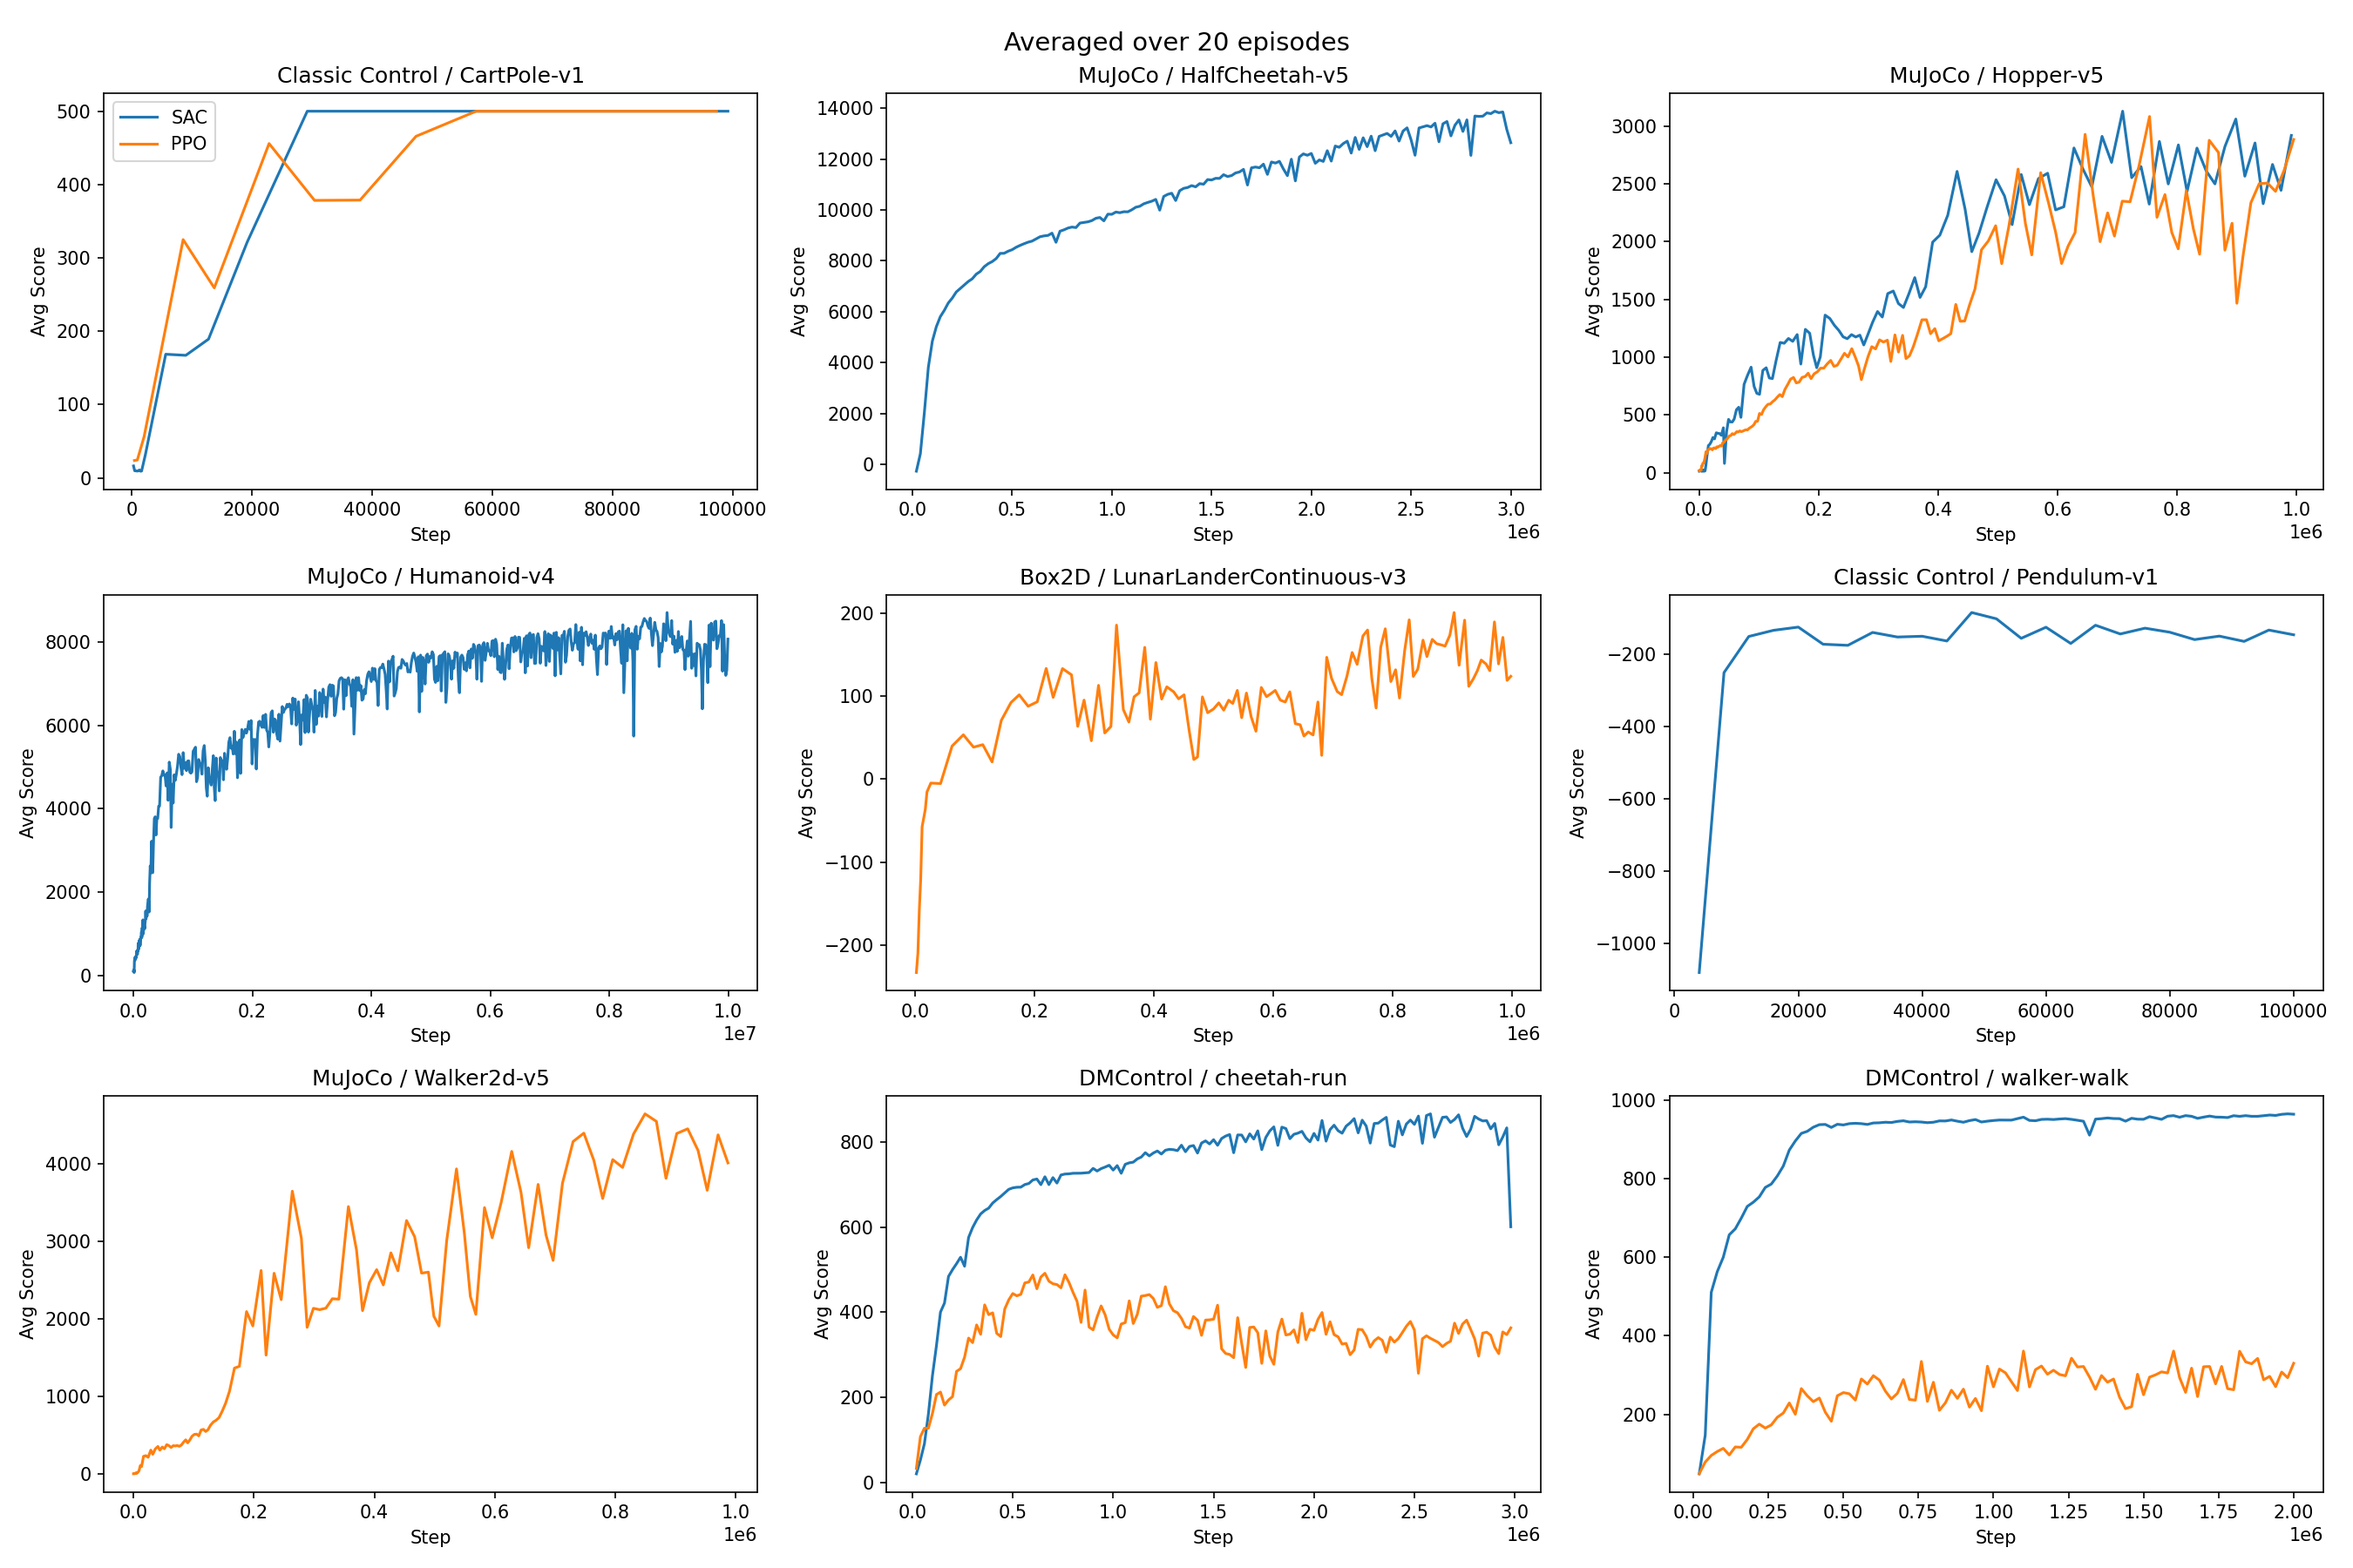
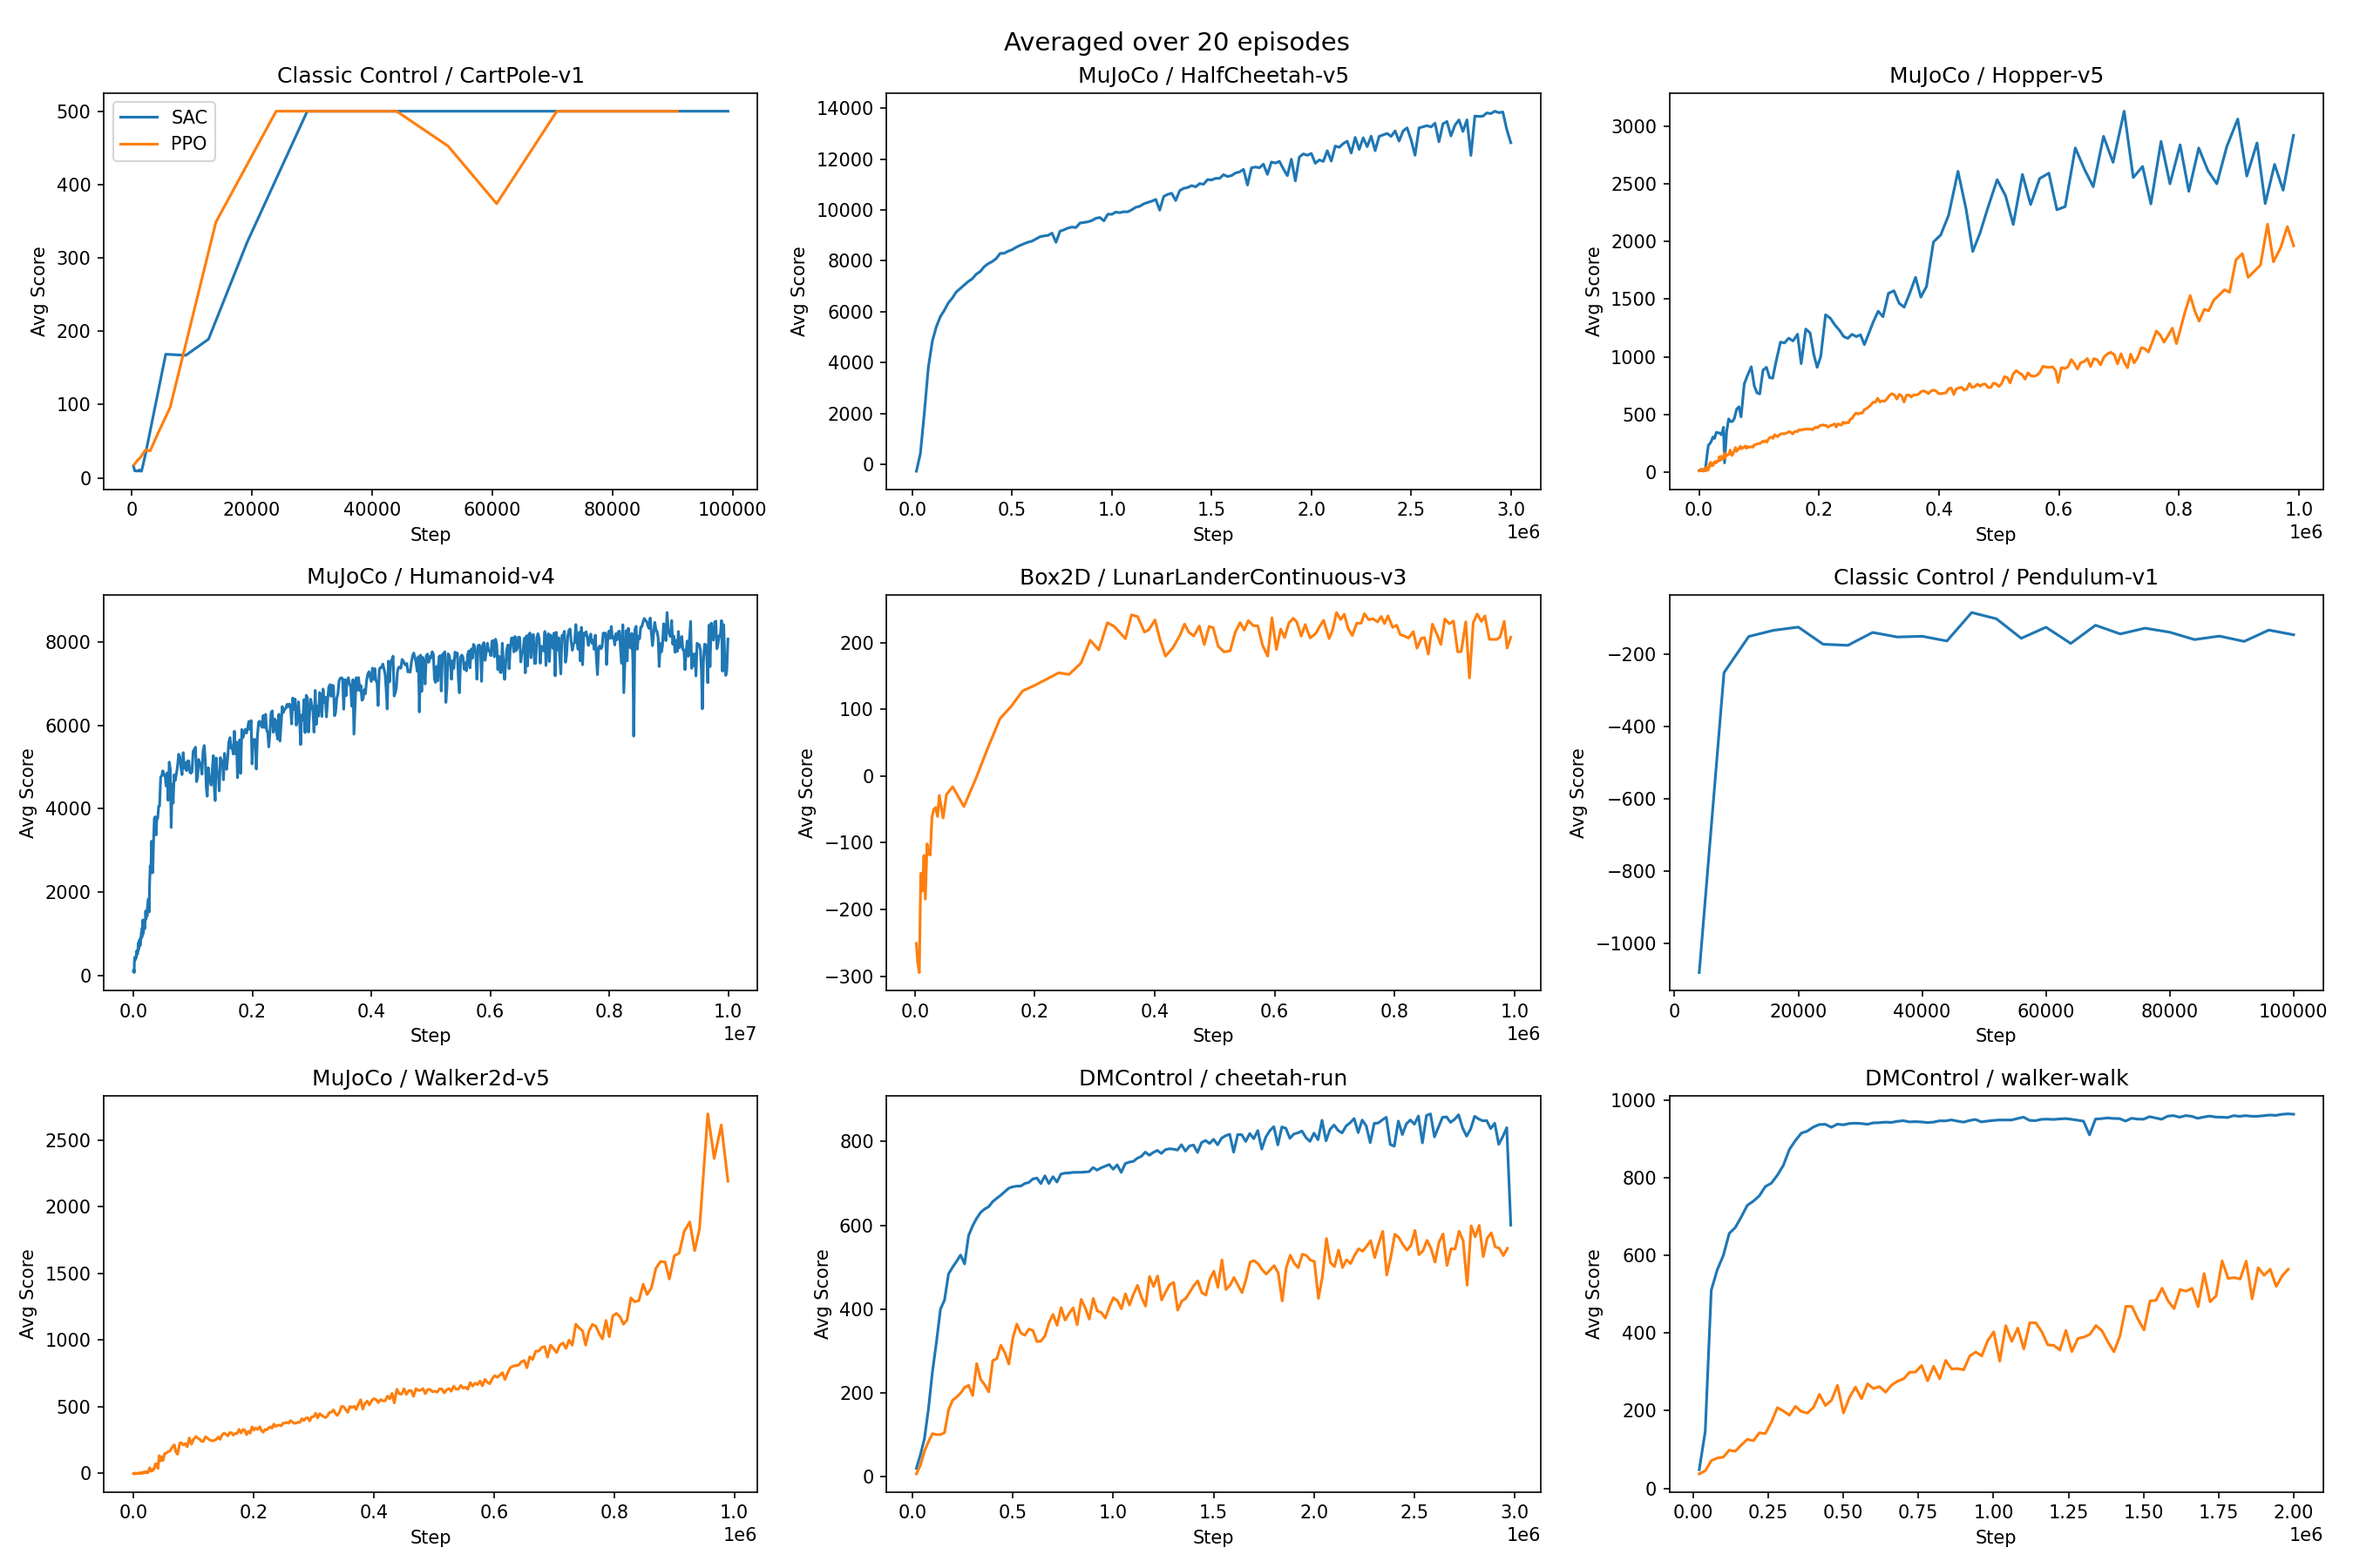
fixed ppo_envs.py and rerun experiments

diff --git a/ppo_envs.py b/ppo_envs.py
@@ -1,4 +1,4 @@
-import gymnasium as gym, torch as T, torch.nn as nn, torch.nn.functional as F, torch.optim as optim, numpy as np, ppo_config as conf, shimmy
+import gymnasium as gym, gymnasium.wrappers as wrappers, torch as T, torch.nn as nn, torch.nn.functional as F, torch.optim as optim, numpy as np, ppo_config as conf, shimmy
 from torch.distributions import Categorical, Normal
 from tqdm import tqdm
 
@@ -9,15 +9,16 @@ def layer_init(layer, std=np.sqrt(2), bias_const=0.0):
 
 def make_envs(env_id, n_envs):
     envs = gym.vector.SyncVectorEnv([lambda: gym.make(env_id) for _ in range(n_envs)])
-    envs = gym.wrappers.vector.FlattenObservation(envs)
-    envs = gym.wrappers.vector.RecordEpisodeStatistics(envs)
-    envs = gym.wrappers.vector.NormalizeObservation(envs)
-    envs = gym.wrappers.vector.TransformObservation(envs, lambda obs: np.clip(obs, -10, 10))
-    envs = gym.wrappers.vector.NormalizeReward(envs, gamma=conf.gamma)
-    envs = gym.wrappers.vector.TransformReward(envs, lambda r: np.clip(r, -10, 10))
-    is_cts, s_dim = isinstance(envs.single_action_space, gym.spaces.Box), envs.single_observation_space.shape[0]
-    a_dim = envs.single_action_space.shape[0] if is_cts else envs.single_action_space.n
-    return envs, is_cts, s_dim, a_dim
+    envs = wrappers.vector.FlattenObservation(envs)
+    envs = wrappers.vector.RecordEpisodeStatistics(envs)
+    envs = wrappers.vector.NormalizeObservation(envs)
+    envs = wrappers.vector.TransformObservation(envs, lambda obs: np.clip(obs, -10, 10))
+    envs = wrappers.vector.NormalizeReward(envs, gamma=conf.gamma)
+    envs = wrappers.vector.TransformReward(envs, lambda r: np.clip(r, -10, 10))
+    if (is_cts := isinstance(envs.single_action_space, gym.spaces.Box)):
+        envs = wrappers.vector.RescaleAction(envs, -1.0, 1.0)
+        envs = wrappers.vector.ClipAction(envs)
+    return envs, is_cts, envs.single_observation_space.shape[0], envs.single_action_space.shape[0] if is_cts else envs.single_action_space.n
 
 class PPO(nn.Module):
     def __init__(self, s_dim, a_dim, is_cts):
@@ -26,8 +27,8 @@ class PPO(nn.Module):
         self.buf, self.p = [T.zeros(conf.T_horizon, conf.n_envs, i, device=conf.device) for i in [self.s_dim, self.a_dim if is_cts else 1, 1, self.s_dim, 1, 1]], 0
 
         self.pi_net, self.v_net = [nn.Sequential(
-            layer_init(nn.Linear(s_dim, 256)), nn.ReLU(),
-            layer_init(nn.Linear(256, 256)), nn.ReLU()
+            layer_init(nn.Linear(s_dim, 256)), nn.Tanh(),
+            layer_init(nn.Linear(256, 256)), nn.Tanh()
         ) for _ in range(2)]
         self.mu_head = layer_init(nn.Linear(256, a_dim), std=0.01) if is_cts else None
         self.log_std = nn.Parameter(T.zeros(a_dim)) if is_cts else None
@@ -55,21 +56,22 @@ class PPO(nn.Module):
     def train_net(self):
         s, a, r, sp, log_p, not_d = self.buf
         with T.no_grad():  # Calculate GAE
-            vals = self.v(s)
-            deltas = r + conf.gamma * T.cat([vals[1:], self.v(sp[-1].unsqueeze(0))]) * not_d - vals
+            vals, next_vals = self.v(s), self.v(sp)
+            deltas = r + conf.gamma * next_vals * not_d - vals
             advantages, gae = T.zeros_like(r), 0
             for t in reversed(range(len(r))):
                 advantages[t] = gae = deltas[t] + conf.gamma * conf.lmbda * not_d[t] * gae
             returns = advantages + vals
-            advantages = (advantages - advantages.mean()) / (advantages.std() + 1e-8)
 
         s, a, log_p, advantages, returns = [x.flatten(0, 1) for x in (s, a, log_p, advantages, returns)]
         for _ in range(conf.K_epoch):  # Update Parameters
-            for inds in T.randperm(len(s), device=conf.device).split(conf.mb_size * conf.n_envs):
+            for inds in T.randperm(len(s), device=conf.device).split(conf.mb_size):
+                mb_adv = advantages[inds]
+                mb_adv = (mb_adv - mb_adv.mean()) / (mb_adv.std() + 1e-8)
                 _, _, log_prob_a, dist = self.pi(s[inds], a[inds])
                 ratio = T.exp(log_prob_a - log_p[inds])
 
-                loss = -T.min(ratio * advantages[inds], T.clamp(ratio, 1-conf.eps_clip, 1+conf.eps_clip) * advantages[inds]).mean() \
+                loss = -T.min(ratio * mb_adv, T.clamp(ratio, 1-conf.eps_clip, 1+conf.eps_clip) * mb_adv).mean() \
                     + 0.5 * conf.vf_coef * F.mse_loss(self.v(s[inds]), returns[inds]) \
                     - conf.ent_coef * (dist.entropy().sum(-1) if self.is_cts else dist.entropy()).mean()
 
